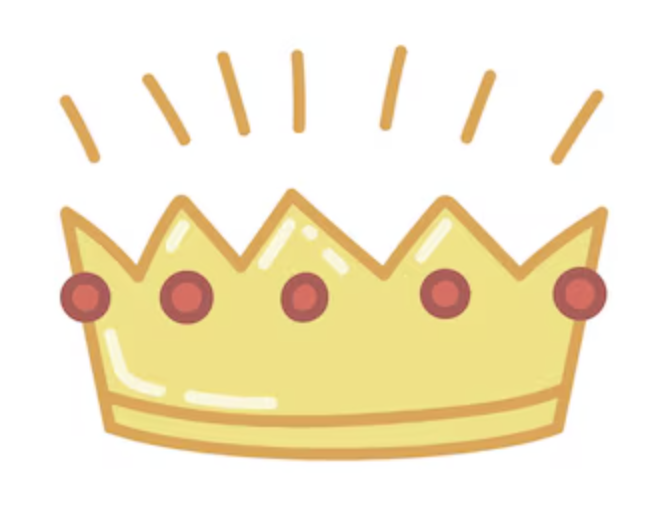
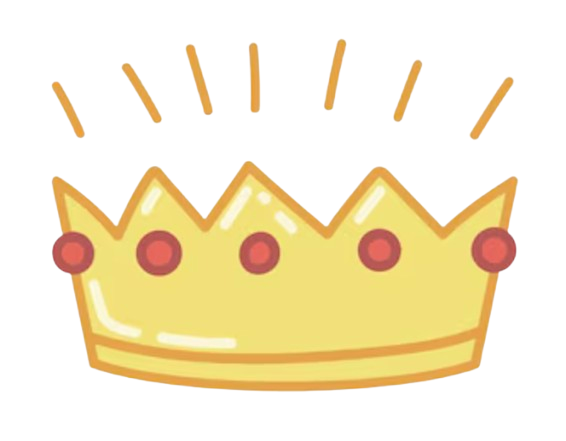
Remove backgrounds on images used for battlephase. Increase size of crown that the winning player receives

diff --git a/client/src/components/match-summary/PlayerPanel.tsx b/client/src/components/match-summary/PlayerPanel.tsx
@@ -28,7 +28,6 @@ const PlayerPanel: React.FC<PlayerPanelProps> = ({
       key={playerIndex}
       style={{
         borderRadius: '0.5rem',
-        // border: '2px solid #964B00',
         padding: '0.75rem 0.5rem',
         textAlign: 'center',
         minWidth: '200px',
@@ -52,6 +51,8 @@ const PlayerPanel: React.FC<PlayerPanelProps> = ({
           justifyContent: 'center',
           gap: '0.5rem',
           position: 'relative',
+          height: '50px', // Fixed height instead of minHeight
+          padding: '0.5rem',
         }}
       >
         {/* Crown image - only show if winner */}
@@ -60,8 +61,8 @@ const PlayerPanel: React.FC<PlayerPanelProps> = ({
             src="/match-summary-assets/CROWN.png"
             alt="Winner Crown"
             style={{
-              width: '20px',
-              height: '20px',
+              width: '35px', // Increased from 20px to 35px
+              height: '35px', // Increased from 20px to 35px
               objectFit: 'contain',
             }}
           />
@@ -70,14 +71,14 @@ const PlayerPanel: React.FC<PlayerPanelProps> = ({
         {/* Player Name */}
         <span>{playerState.name}</span>
         
-        {/* Crown on the other side for balance (optional) */}
+        {/* Crown on the other side for balance */}
         {winner && (
           <img 
             src="/match-summary-assets/CROWN.png"
             alt="Winner Crown"
             style={{
-              width: '20px',
-              height: '20px',
+              width: '35px', // Increased from 20px to 35px
+              height: '35px', // Increased from 20px to 35px
               objectFit: 'contain',
             }}
           />
@@ -92,7 +93,6 @@ const PlayerPanel: React.FC<PlayerPanelProps> = ({
           alignItems: 'center',
           flexDirection: isLeftPlayer ? 'row' : 'row-reverse',
           position: 'relative', // Enable positioning for overlap
-          // border: '2px solid',
         }}
       >
         {/* Health Bar */}
@@ -100,7 +100,6 @@ const PlayerPanel: React.FC<PlayerPanelProps> = ({
           style={{ 
             width: '80%',
             zIndex: 1, // Keep health bar below monster image
-            // border: '2px dotted',
           }}
         >
           <HealthBar 
@@ -126,7 +125,6 @@ const PlayerPanel: React.FC<PlayerPanelProps> = ({
             left: isLeftPlayer ? 'auto' : '10px',
             top: '50%',
             transform: `translateY(-50%) ${isLeftPlayer ? 'scaleX(-1)' : 'scaleX(1)'}`,
-            // border: '2px solid',
           }}
         >
           <img 
